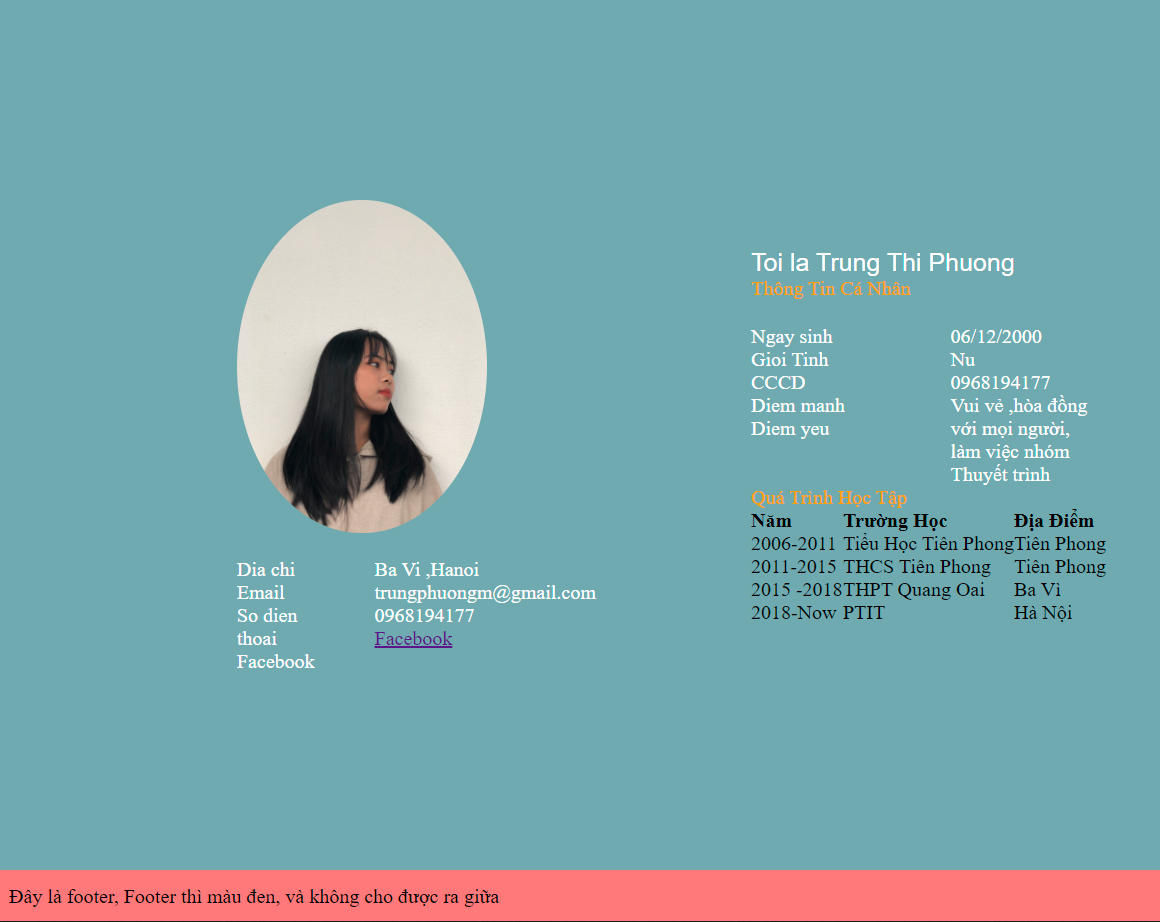
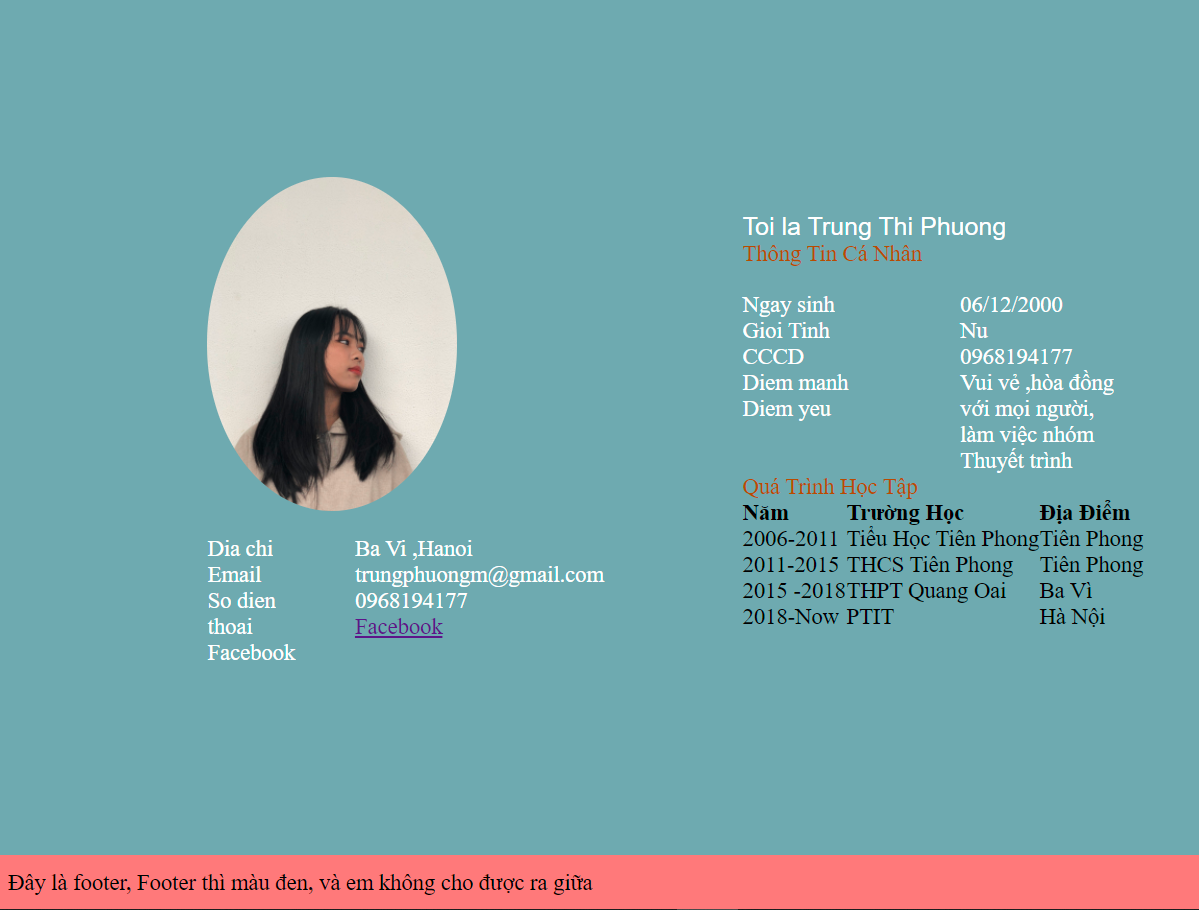
chore: Do Front-end 2504
Bai tap buoi 2 thuc hanh code trang web gioi thieu ban than bang Css+Html

diff --git a/Front-end/Buoi2-Css/gioithieu.html b/Front-end/Buoi2-Css/gioithieu.html
@@ -16,7 +16,7 @@
     }
     body >div {
         font-size: large;
-        color:orange
+        color:rgb(168, 81, 9)
         
     }
     h1.name{
@@ -105,6 +105,6 @@
             </div> 
         </div>
     </div>
-    <p id="footer">Đây là footer, Footer thì màu đen, và không cho được ra giữa  </p>
+    <p id="footer">Đây là footer, Footer thì màu đen, và em  không cho được ra giữa  </p>
 </body>
 </html>
